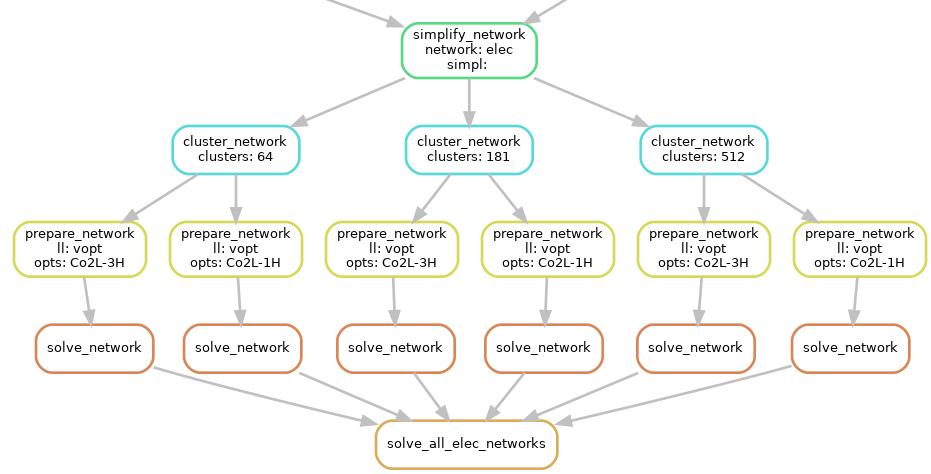
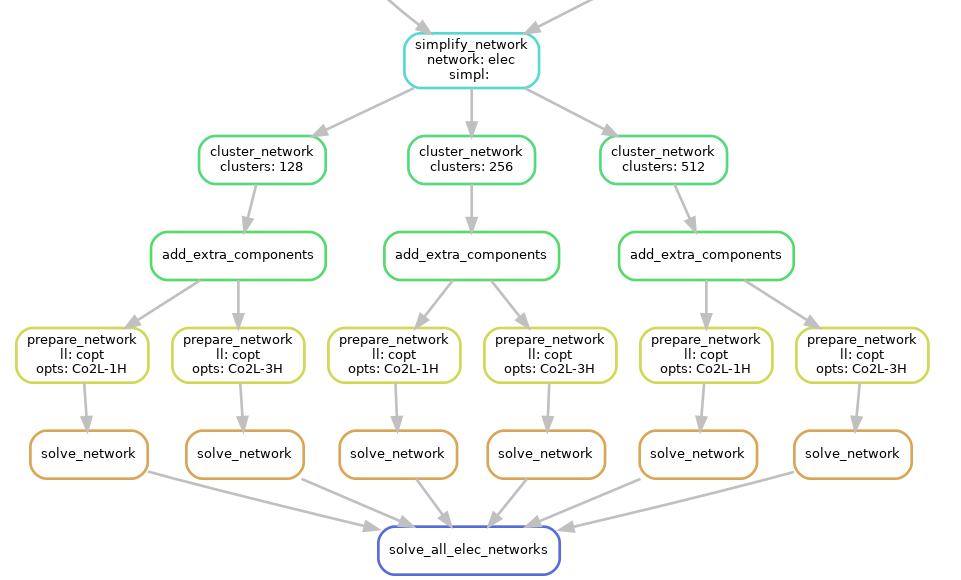
Prepare Release v0.2.0 (#165)
* prepare release v0.2.0

* prepare release v0.2.0 v2 [skip travis]

Changed region(s): [[0.0, 0.0, 0.9968, 1.0], [0.5918, 0.0, 0.623, 0.0295]]

diff --git a/scripts/build_renewable_profiles.py b/scripts/build_renewable_profiles.py
@@ -96,26 +96,31 @@ Outputs
 
     .. image:: ../img/profile_ts.png
         :scale: 33 %
+        :align: center
 
     - **p_nom_max**
 
     .. image:: ../img/p_nom_max_hist.png
         :scale: 33 %
+        :align: center
 
     - **potential**
 
     .. image:: ../img/potential_heatmap.png
         :scale: 33 %
+        :align: center
 
     - **average_distance**
 
     .. image:: ../img/distance_hist.png
         :scale: 33 %
+        :align: center
 
     - **underwater_fraction**
 
     .. image:: ../img/underwater_hist.png
         :scale: 33 %
+        :align: center
 
 Description
 -----------
@@ -134,10 +139,30 @@ cutout grid cell and each node using the `GLAES
 <https://github.com/FZJ-IEK3-VSA/glaes>`_ library. This uses the CORINE land use data,
 Natura2000 nature reserves and GEBCO bathymetry data.
 
+.. image:: ../img/eligibility.png
+    :scale: 50 %
+    :align: center
+
 To compute the layout of generators in each node's Voronoi cell, the
 installable potential in each grid cell is multiplied with the capacity factor
 at each grid cell. This is done since we assume more generators are installed
 at cells with a higher capacity factor.
+
+.. image:: ../img/offwinddc-gridcell.png
+    :scale: 50 %
+    :align: center
+
+.. image:: ../img/offwindac-gridcell.png
+    :scale: 50 %
+    :align: center
+
+.. image:: ../img/onwind-gridcell.png
+    :scale: 50 %
+    :align: center
+
+.. image:: ../img/solar-gridcell.png
+    :scale: 50 %
+    :align: center
 
 This layout is then used to compute the generation availability time series
 from the weather data cutout from ``atlite``.

diff --git a/scripts/cluster_network.py b/scripts/cluster_network.py
@@ -93,6 +93,30 @@ Description
     for all ``scenario`` s in the configuration file
     the rule :mod:`cluster_network`.
 
+Exemplary unsolved network clustered to 512 nodes:
+
+.. image:: ../img/elec_s_512.png
+    :scale: 40  %
+    :align: center
+
+Exemplary unsolved network clustered to 256 nodes:
+
+.. image:: ../img/elec_s_256.png
+    :scale: 40  %
+    :align: center
+
+Exemplary unsolved network clustered to 128 nodes:
+
+.. image:: ../img/elec_s_128.png
+    :scale: 40  %
+    :align: center
+
+Exemplary unsolved network clustered to 37 nodes:
+
+.. image:: ../img/elec_s_37.png
+    :scale: 40  %
+    :align: center  
+
 """
 
 import logging

diff --git a/doc/conf.py b/doc/conf.py
@@ -74,9 +74,9 @@ author = u'Jonas Hoersch (KIT, FIAS), Fabian Hofmann (FIAS), David Schlachtberge
 # built documents.
 #
 # The short X.Y version.
-version = u'0.1'
+version = u'0.2'
 # The full version, including alpha/beta/rc tags.
-release = u'0.1.0'
+release = u'0.2.0'
 
 # The language for content autogenerated by Sphinx. Refer to documentation
 # for a list of supported languages.

diff --git a/doc/release_notes.rst b/doc/release_notes.rst
@@ -7,17 +7,46 @@
 Release Notes
 ##########################################
 
+
+Upcoming Release
+================
+
+* ...
+
+
+PyPSA-Eur 0.2.0 (8th June 2020)
+==================================
+
 * The optimization is now performed using the ``pyomo=False`` setting in the :func:`pypsa.lopf.network_lopf`. This speeds up the solving process significantly and consumes much less memory. The inclusion of additional constraints were adjusted to the new implementation. They are all passed to the :func:`network_lopf` function via the ``extra_functionality`` argument. The rule ``trace_solve_network`` was integrated into the rule :mod:`solve_network` and can be activated via configuration with ``solving: options: track_iterations: true``. The charging and discharging capacities of batteries modelled as store-link combination are now coupled (`#116 <https://github.com/PyPSA/pypsa-eur/pull/116>`_).
 
 * An updated extract of the `ENTSO-E Transmission System Map <https://www.entsoe.eu/data/map/>`_ (including Malta) was added to the repository using the `GridKit <https://github.com/PyPSA/GridKit>`_ tool. This tool has been updated to retrieve up-to-date map extracts using a single `script <https://github.com/PyPSA/GridKit/blob/master/entsoe/runall_in_docker.sh>`_. The update extract features 5322 buses, 6574 lines, 46 links. (`#118 <https://github.com/PyPSA/pypsa-eur/pull/118>`_).
 
-* Removed the ``id`` column for custom power plants in ``data/custom_powerplants.csv`` to avoid custom power plants with conflicting ids getting attached to the wrong bus (`#131 <https://github.com/PyPSA/pypsa-eur/pull/131>`_).
+* Added `FSFE REUSE <https://reuse.software>`_ compliant license information. Documentation now licensed under CC-BY-4.0 (`#160 <https://github.com/PyPSA/pypsa-eur/pull/160>`_).
+
+* Added a 30 minute `video introduction <https://pypsa-eur.readthedocs.io/en/latest/introduction.html>`_ and a 20 minute `video tutorial <https://pypsa-eur.readthedocs.io/en/latest/tutorial.html>`_
+
+* Networks now store a color and a nicely formatted name for each carrier, accessible via ``n.carrier['color']`` and ``n.carrier['nice_name'] ``(networks after ``elec.nc``).
+
+* Added an option to skip iterative solving usually performed to update the line impedances of expanded lines at ``solving: options: skip_iterations:``.
 
 * ``snakemake`` rules for retrieving cutouts and the natura raster can now be disabled independently from their respective rules to build them; via ``config.*yaml`` (`#136 <https://github.com/PyPSA/pypsa-eur/pull/136>`_).
 
-* Add option ``renewables: {carrier}: keep_all_available_areas: `` to use all availabe weather cells for renewable profile and potential generation. The default ignores weather cells where only less than 1 MW can be installed  (`#150 <https://github.com/PyPSA/pypsa-eur/pull/150>`_).
+* Removed the ``id`` column for custom power plants in ``data/custom_powerplants.csv`` to avoid custom power plants with conflicting ids getting attached to the wrong bus (`#131 <https://github.com/PyPSA/pypsa-eur/pull/131>`_).
 
-* Added `FSFE REUSE <https://reuse.software>`_ compliant license information. Documentation now licensed under CC-BY-4.0 (`#160 <https://github.com/PyPSA/pypsa-eur/pull/160>`_).
+* Add option ``renewables: {carrier}: keep_all_available_areas:`` to use all availabe weather cells for renewable profile and potential generation. The default ignores weather cells where only less than 1 MW can be installed  (`#150 <https://github.com/PyPSA/pypsa-eur/pull/150>`_).
+
+* Added a function ``_helpers.load_network()`` which loads a network with overridden components specified in ``snakemake.config['override_components']`` (`#128 <https://github.com/PyPSA/pypsa-eur/pull/128>`_).
+
+* Bugfix in  :mod:`base_network` which now finds all closest links, not only the first entry (`#143 <https://github.com/PyPSA/pypsa-eur/pull/143>`_).
+
+* Bugfix in :mod:`cluster_network` which now skips recalculation of link parameters if there are no links  (`#149 <https://github.com/PyPSA/pypsa-eur/pull/149>`_).
+
+* Added information on pull requests to contribution guidelines (`#151 <https://github.com/PyPSA/pypsa-eur/pull/151>`_).
+
+* Improved documentation on open-source solver setup and added usage warnings.
+
+* Updated ``conda`` environment regarding ``pypsa``, ``pyproj``, ``gurobi``, ``lxml``. This release requires PyPSA v0.17.0.
+
 
 PyPSA-Eur 0.1.0 (9th January 2020)
 ==================================

diff --git a/README.md b/README.md
@@ -6,7 +6,6 @@ SPDX-License-Identifier: CC-BY-4.0
 ![GitHub release (latest by date including pre-releases)](https://img.shields.io/github/v/release/pypsa/pypsa-eur?include_prereleases)
 [![Build Status](https://travis-ci.org/PyPSA/pypsa-eur.svg?branch=master)](https://travis-ci.org/PyPSA/pypsa-eur)
 [![Documentation](https://readthedocs.org/projects/pypsa-eur/badge/?version=latest)](https://pypsa-eur.readthedocs.io/en/latest/?badge=latest)
-![GitHub](https://img.shields.io/github/license/pypsa/pypsa-eur)
 ![Size](https://img.shields.io/github/repo-size/pypsa/pypsa-eur)
 [![Zenodo](https://zenodo.org/badge/DOI/10.5281/zenodo.3520875.svg)](https://doi.org/10.5281/zenodo.3520875)
 [![Gitter](https://badges.gitter.im/PyPSA/community.svg)](https://gitter.im/PyPSA/community?utm_source=badge&utm_medium=badge&utm_campaign=pr-badge)

diff --git a/doc/index.rst b/doc/index.rst
@@ -16,9 +16,6 @@ PyPSA-Eur: An Open Optimisation Model of the European Transmission System
     :target: https://pypsa-eur.readthedocs.io/en/latest/?badge=latest
     :alt: Documentation Status
 
-.. image:: https://img.shields.io/github/license/pypsa/pypsa-eur
-    :alt: GitHub
-
 .. image:: https://img.shields.io/github/repo-size/pypsa/pypsa-eur
     :alt: GitHub repo size
 
